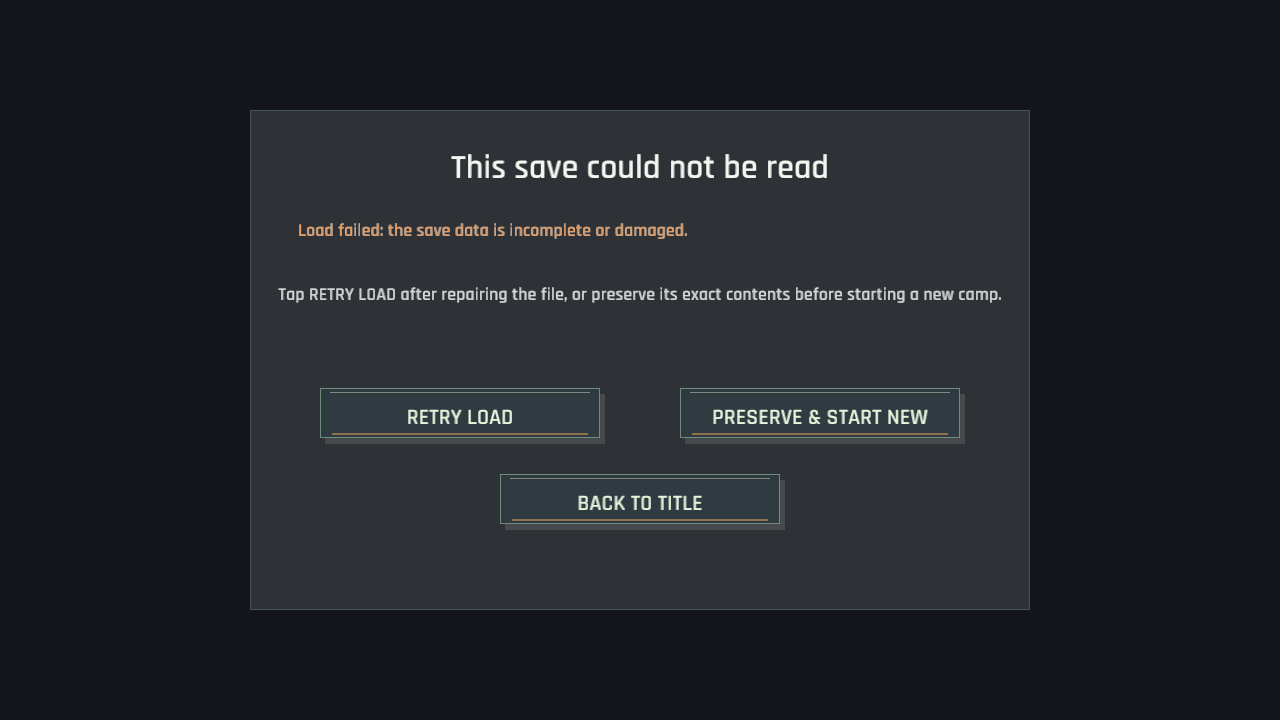
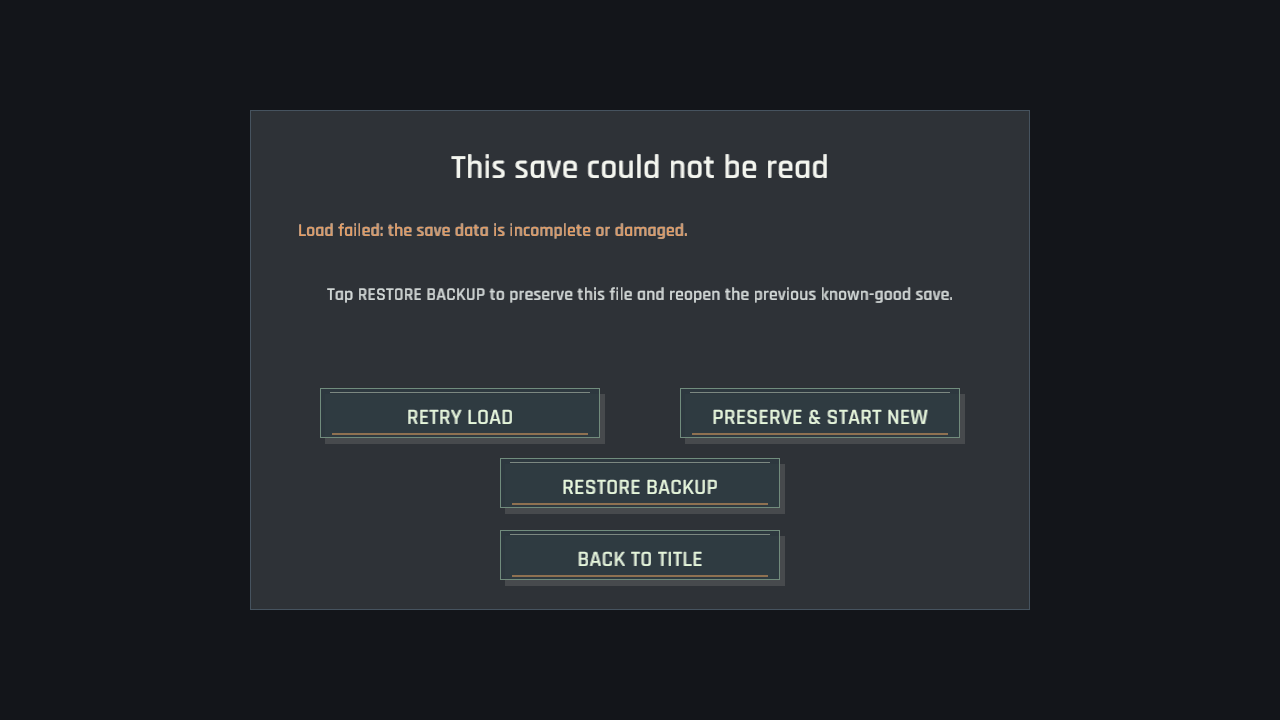
Yesterday's ledger waits behind the recovery seal (save backup restore UI)
Autosave and atomic writes protected the active camp, but players had no visible way back after a valid replacement became undesirable. Rotate one exact previous-save copy for gameplay writes, keep schema rewrites from consuming it, and expose RESTORE BACKUP only when that copy exists. Restoration preserves the displaced file, confirmed reset clears active rollback copies, Help explains the safety model, and the verification capture records the touch-first recovery path.

Changed region(s): [[0.375, 0.6417, 0.625, 0.825], [0.2188, 0.3972, 0.7812, 0.4278]]

diff --git a/src/game/actions.rs b/src/game/actions.rs
@@ -86,6 +86,23 @@ impl Game {
     pub(crate) fn apply_save_recovery_action(&mut self, action: SaveRecoveryAction) {
         match action {
             SaveRecoveryAction::Retry => self.load_game(),
+            SaveRecoveryAction::RestoreBackup => match SaveRepository::restore_backup() {
+                Ok(displaced_slot) => {
+                    self.load_game();
+                    let load_status = self.status_message.clone();
+                    self.status_message = match displaced_slot {
+                        Some(name) => format!(
+                            "Backup restored; the replaced file is preserved as {name}. {load_status}"
+                        ),
+                        None => format!("Backup restored. {load_status}"),
+                    };
+                }
+                Err(error) => {
+                    self.screen = AppScreen::SaveRecovery;
+                    self.status_message = format!("Could not restore the backup: {error}");
+                    self.save_recovery_has_backup = SaveRepository::backup_exists();
+                }
+            },
             SaveRecoveryAction::PreserveAndStartNew => match SaveRepository::quarantine() {
                 Ok(quarantine_name) => {
                     self.start_new_game();
@@ -440,6 +457,7 @@ impl Game {
                         save_data.version, self.data.config.save_version
                     );
                     self.save_recovery_can_preserve = false;
+                    self.save_recovery_has_backup = SaveRepository::backup_exists();
                     self.screen = AppScreen::SaveRecovery;
                     return;
                 }
@@ -460,7 +478,7 @@ impl Game {
                     version: self.data.config.save_version,
                     state: self.state.clone().expect("loaded state was just installed"),
                 };
-                self.status_message = match SaveRepository::save(&migrated) {
+                self.status_message = match SaveRepository::rewrite_loaded(&migrated) {
                     Ok(()) if save_compatibility == SaveCompatibility::Older => format!(
                         "Loaded day {loaded_day} and upgraded save version {loaded_version} to {}.",
                         self.data.config.save_version
@@ -477,6 +495,7 @@ impl Game {
             Err(error) => {
                 self.status_message = format!("Load failed: {error}");
                 self.save_recovery_can_preserve = true;
+                self.save_recovery_has_backup = SaveRepository::backup_exists();
                 self.screen = AppScreen::SaveRecovery;
             }
         }

diff --git a/src/screens/save_recovery.rs b/src/screens/save_recovery.rs
@@ -6,16 +6,20 @@ use crate::ui;
 #[derive(Clone, Copy, Debug, Eq, PartialEq)]
 pub enum SaveRecoveryAction {
     Retry,
+    RestoreBackup,
     PreserveAndStartNew,
     BackToTitle,
 }
 
-pub fn handle_input(can_preserve: bool) -> Option<SaveRecoveryAction> {
+pub fn handle_input(can_preserve: bool, has_backup: bool) -> Option<SaveRecoveryAction> {
     if ui::button_clicked(retry_rect(), true) {
         return Some(SaveRecoveryAction::Retry);
     }
     if can_preserve && ui::button_clicked(preserve_rect(), true) {
         return Some(SaveRecoveryAction::PreserveAndStartNew);
+    }
+    if has_backup && ui::button_clicked(restore_rect(), true) {
+        return Some(SaveRecoveryAction::RestoreBackup);
     }
     if is_key_pressed(KeyCode::Escape) || ui::button_clicked(back_rect(), true) {
         return Some(SaveRecoveryAction::BackToTitle);
@@ -24,7 +28,7 @@ pub fn handle_input(can_preserve: bool) -> Option<SaveRecoveryAction> {
     None
 }
 
-pub fn draw(problem: &str, can_preserve: bool) {
+pub fn draw(problem: &str, can_preserve: bool, has_backup: bool) {
     draw_rectangle(0.0, 0.0, ui::VIEW_WIDTH, ui::VIEW_HEIGHT, ui::BACKGROUND);
     let panel = Rect::new(250.0, 110.0, 780.0, 500.0);
     ui::draw_panel(panel);
@@ -51,7 +55,9 @@ pub fn draw(problem: &str, can_preserve: bool) {
         },
     );
 
-    let explanation = if can_preserve {
+    let explanation = if has_backup {
+        "Tap RESTORE BACKUP to preserve this file and reopen the previous known-good save."
+    } else if can_preserve {
         "Tap RETRY LOAD after repairing the file, or preserve its exact contents before starting a new camp."
     } else {
         "Install a newer Hatchspire build to load it. This version will not alter the save."
@@ -68,6 +74,9 @@ pub fn draw(problem: &str, can_preserve: bool) {
     if can_preserve {
         ui::draw_title_button(preserve_rect(), "PRESERVE & START NEW", true);
     }
+    if has_backup {
+        ui::draw_title_button(restore_rect(), "RESTORE BACKUP", true);
+    }
     ui::draw_title_button(back_rect(), "BACK TO TITLE", true);
 }
 
@@ -79,6 +88,10 @@ fn preserve_rect() -> Rect {
     Rect::new(680.0, 388.0, 280.0, 50.0)
 }
 
+fn restore_rect() -> Rect {
+    Rect::new(500.0, 458.0, 280.0, 50.0)
+}
+
 fn back_rect() -> Rect {
-    Rect::new(500.0, 474.0, 280.0, 50.0)
+    Rect::new(500.0, 530.0, 280.0, 50.0)
 }

diff --git a/src/game.rs b/src/game.rs
@@ -28,6 +28,7 @@ pub struct Game {
     title_texture: Texture2D,
     settings: AppSettings,
     save_recovery_can_preserve: bool,
+    save_recovery_has_backup: bool,
     autosave_enabled: bool,
 }
 
@@ -68,6 +69,7 @@ impl Game {
             title_texture,
             settings,
             save_recovery_can_preserve: false,
+            save_recovery_has_backup: false,
             autosave_enabled: true,
         }
     }
@@ -91,7 +93,10 @@ impl Game {
                 }
             }
             AppScreen::SaveRecovery => {
-                if let Some(action) = save_recovery::handle_input(self.save_recovery_can_preserve) {
+                if let Some(action) = save_recovery::handle_input(
+                    self.save_recovery_can_preserve,
+                    self.save_recovery_has_backup,
+                ) {
                     self.apply_save_recovery_action(action);
                 }
             }
@@ -218,7 +223,11 @@ impl Game {
                 menu::draw_save_reset_confirmation(&self.title_texture, true);
             }
             AppScreen::SaveRecovery => {
-                save_recovery::draw(&self.status_message, self.save_recovery_can_preserve);
+                save_recovery::draw(
+                    &self.status_message,
+                    self.save_recovery_can_preserve,
+                    self.save_recovery_has_backup,
+                );
             }
             AppScreen::Settings => {
                 menu::draw_settings(&self.settings, &self.status_message);

diff --git a/src/save/mod.rs b/src/save/mod.rs
@@ -30,6 +30,15 @@ pub fn compatibility(save_version: u32, supported_version: u32) -> SaveCompatibi
 
 impl SaveRepository {
     pub fn save(save_data: &SaveData) -> Result<(), String> {
+        macroquad_toolkit::persistence::save_to_slot_with_version_and_backup(
+            GAME_NAME,
+            SAVE_SLOT,
+            save_data,
+            env!("CARGO_PKG_VERSION"),
+        )
+    }
+
+    pub fn rewrite_loaded(save_data: &SaveData) -> Result<(), String> {
         macroquad_toolkit::persistence::save_to_slot_with_version(
             GAME_NAME,
             SAVE_SLOT,
@@ -50,8 +59,23 @@ impl SaveRepository {
         macroquad_toolkit::persistence::quarantine_slot(GAME_NAME, SAVE_SLOT)
     }
 
+    pub fn backup_exists() -> bool {
+        macroquad_toolkit::persistence::slot_backup_exists(GAME_NAME, SAVE_SLOT)
+    }
+
+    pub fn restore_backup() -> Result<Option<String>, String> {
+        macroquad_toolkit::persistence::restore_slot_backup(GAME_NAME, SAVE_SLOT)
+    }
+
     pub fn delete() -> Result<(), String> {
-        macroquad_toolkit::persistence::delete_slot(GAME_NAME, SAVE_SLOT)
+        for slot in [
+            SAVE_SLOT.to_owned(),
+            format!("{SAVE_SLOT}_backup"),
+            format!("{SAVE_SLOT}_before_restore"),
+        ] {
+            macroquad_toolkit::persistence::delete_slot(GAME_NAME, &slot)?;
+        }
+        Ok(())
     }
 
     pub fn location_description() -> String {

diff --git a/src/screens/help.rs b/src/screens/help.rs
@@ -53,7 +53,7 @@ pub fn draw(save_location: &str) {
         panel.y + 268.0,
     );
     draw_value(
-        "An unreadable save can be preserved from the recovery screen before starting a new camp.",
+        "Recovery can restore the previous save while preserving the replaced file, or archive an unreadable save.",
         panel.x + 28.0,
         panel.y + 298.0,
     );

diff --git a/src/game/capture.rs b/src/game/capture.rs
@@ -43,6 +43,7 @@ impl Game {
                 self.state = None;
                 self.screen = AppScreen::SaveRecovery;
                 self.save_recovery_can_preserve = true;
+                self.save_recovery_has_backup = true;
                 self.status_message =
                     "Load failed: the save data is incomplete or damaged.".to_owned();
             }

diff --git a/AI_AGENT_PC_DEMO_RELEASE_PLAN.md b/AI_AGENT_PC_DEMO_RELEASE_PLAN.md
@@ -15,7 +15,8 @@ Audit date: 26 August 2026
   autosave with visible success/failure status; separately confirmed save reset; in-game build,
   save-location, and recovery help; independently persisted audio/display/motion preferences.
   Windowed UI scale now resizes the complete canvas across four tested sizes without cropping;
-  supported historical saves normalize and rewrite at the current version.
+  supported historical saves normalize and rewrite at the current version. Each successful
+  replacement save now retains one restorable previous state without discarding the file it replaces.
 
 The working specification deliberately separates approved facts from proposed defaults. Updating
 its decision record is the gate that authorizes scope-sensitive gameplay changes.
@@ -52,8 +53,8 @@ The schedule is driven by feedback cycles rather than code volume. An agent can 
 ### Already strong
 
 - The complete town-building → monster-raising → tower → recovery loop exists.
-- The implementation contains 18,555 lines across 100 Rust files; every Rust file is below the 800-line project limit.
-- The automated suite currently passes 104 tests: 93 unit tests, 9 end-to-end game-flow tests, one asset-registry test, and one code-standards test.
+- The implementation contains 19,613 lines across 108 Rust files; every Rust file is below the 800-line project limit.
+- The automated suite currently passes 112 tests: 101 unit tests, 9 end-to-end game-flow tests, one asset-registry test, and one code-standards test.
 - Formatting and strict lint checks pass.
 - The Windows release already packages successfully as a self-contained 51.3 MB `hatchspire_windows.zip` containing `hatchspire.exe`.
 - GitHub CI checks formatting, linting, tests, WebGL compilation, and a Windows release build.
@@ -72,7 +73,7 @@ The schedule is driven by feedback cycles rather than code volume. An agent can 
 - Save/load remains a single slot. The initial audit found no autosave or recovery shell; New Game
   confirmation, change-aware autosave, corrupt-save quarantine, and newer-save protection are now
   implemented, together with a separately confirmed save reset and native save-location help.
-  Backup restore remains.
+  One-step backup restore is also available from the recovery screen and preserves the displaced file.
 - There is no `LICENSE`, credits/attribution file, third-party notice, privacy statement, or recorded provenance manifest for shipped art, fonts, and audio.
 - `asset_registry.json` is empty even though roughly twenty large atlases and the title image are embedded in the executable. The full asset tree contains 531 files and about 782 MB, so shipped inputs must be distinguished from experiments and references.
 - `publish-itch.ps1` exists, but the required `itch.json` does not. The publisher cannot target an itch.io project yet.

diff --git a/docs/pc_demo_release_checklist.md b/docs/pc_demo_release_checklist.md
@@ -44,6 +44,7 @@ Severity is based on player impact and the approved promise, not implementation 
 - [x] Master/music/SFX values, mute, fullscreen, and reduced motion persist outside game saves.
 - [x] Windowed UI scale persists and preserves the complete canvas at 90%, 100%, 110%, and 125%.
 - [x] Supported historical saves normalize and rewrite fully; unreadable partial saves enter recovery.
+- [x] Each successful replacement save retains one rollback point; recovery preserves the displaced file before restoring it.
 - [ ] No crash, hang, progress loss, chroma leak, overlap, clipping, or missing asset exists on the route.
 - [ ] Master/music/SFX volume, mute, fullscreen/windowed, UI scale, and reduced motion persist.
 - [ ] Full-demo deterministic run, release smoke test, and soak gate pass.

diff --git a/docs/pc_demo_definition.md b/docs/pc_demo_definition.md
@@ -76,7 +76,7 @@ This is the route the tutorial, deterministic test fixture, and release capture 
 - Floor 3 has no guardian or authored finale state.
 - Tutorial completion, demo completion, and post-finale results are not represented in save data.
 - Change-aware autosave, New Game confirmation, separately confirmed reset, native save-location
-  help, and visible historical-save migration are implemented.
+  help, visible historical-save migration, and one-step rollback are implemented.
 - Settings persist audio groups, mute, fullscreen, reduced motion, and whole-canvas windowed UI
   scale independently; approved audio playback remains.
 - No full-demo deterministic test currently spans the numbered path above.

diff --git a/README.md b/README.md
@@ -39,6 +39,7 @@ Turn a fragile camp into a working monster haven that can support increasingly d
 - Audio levels, mute, fullscreen, and reduced motion persist independently from game saves.
 - Window UI scale resizes the complete fixed canvas to 90%, 100%, 110%, or 125% without clipping controls.
 - Supported older saves are normalized and rewritten at the current version when loaded.
+- Each successful replacement save keeps the previous state available through RESTORE BACKUP on the recovery screen.
 - Mouse: build, open, trade, and greet.
 - Touch/mouse: every required tower action has a visible target, including room routing, EXPLORE, SURVEY, CAMP, RETREAT, event choices, and the Field Guide.
 
